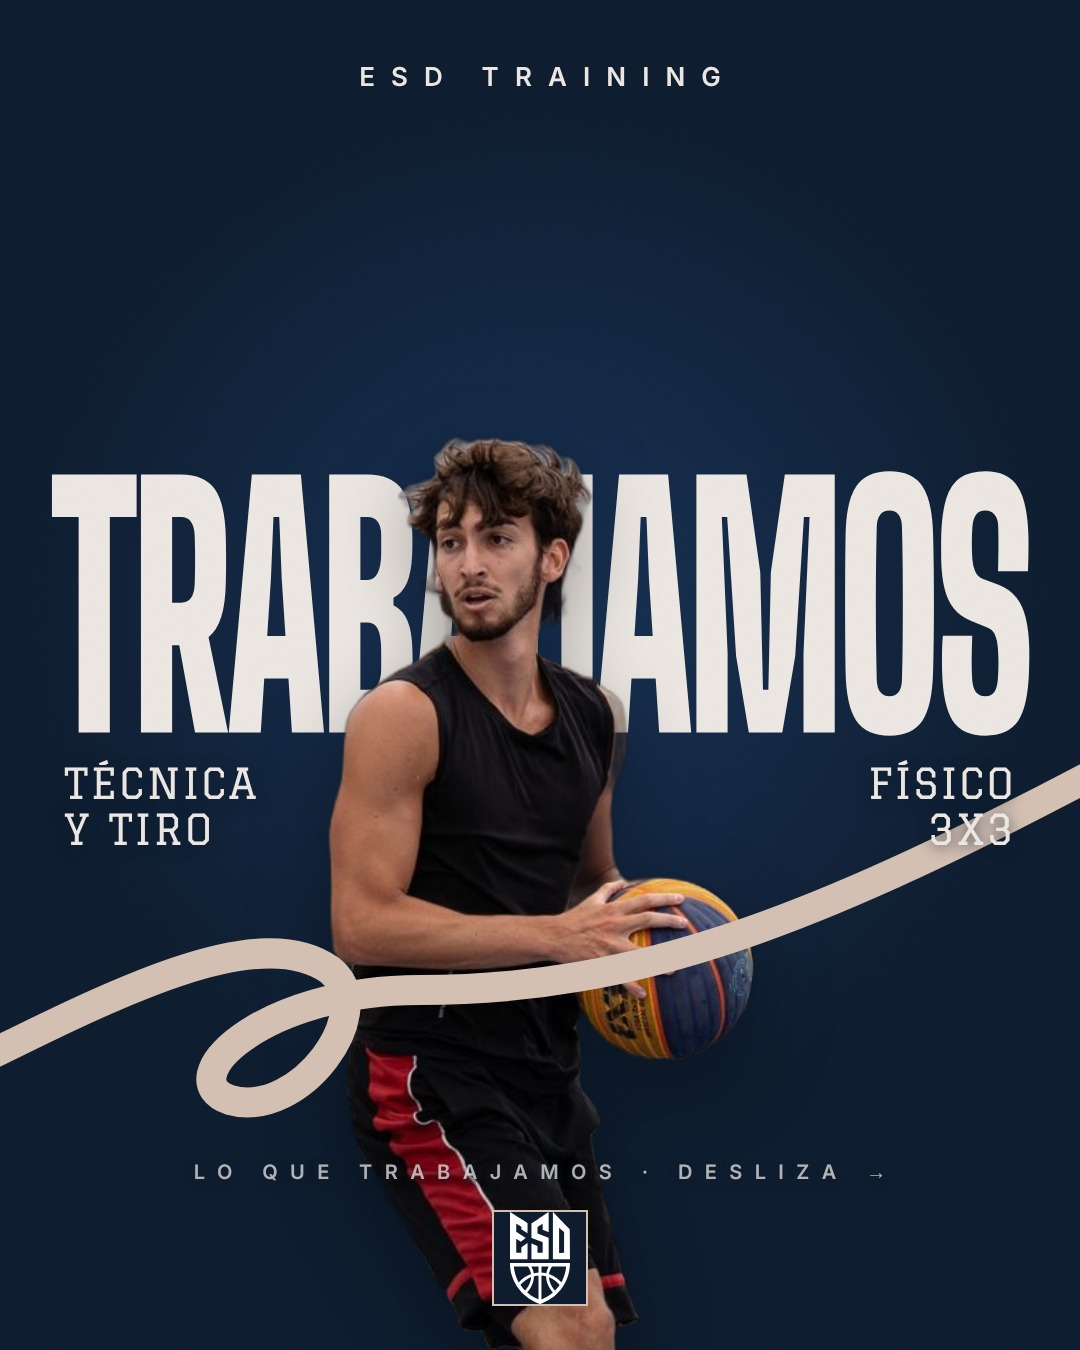
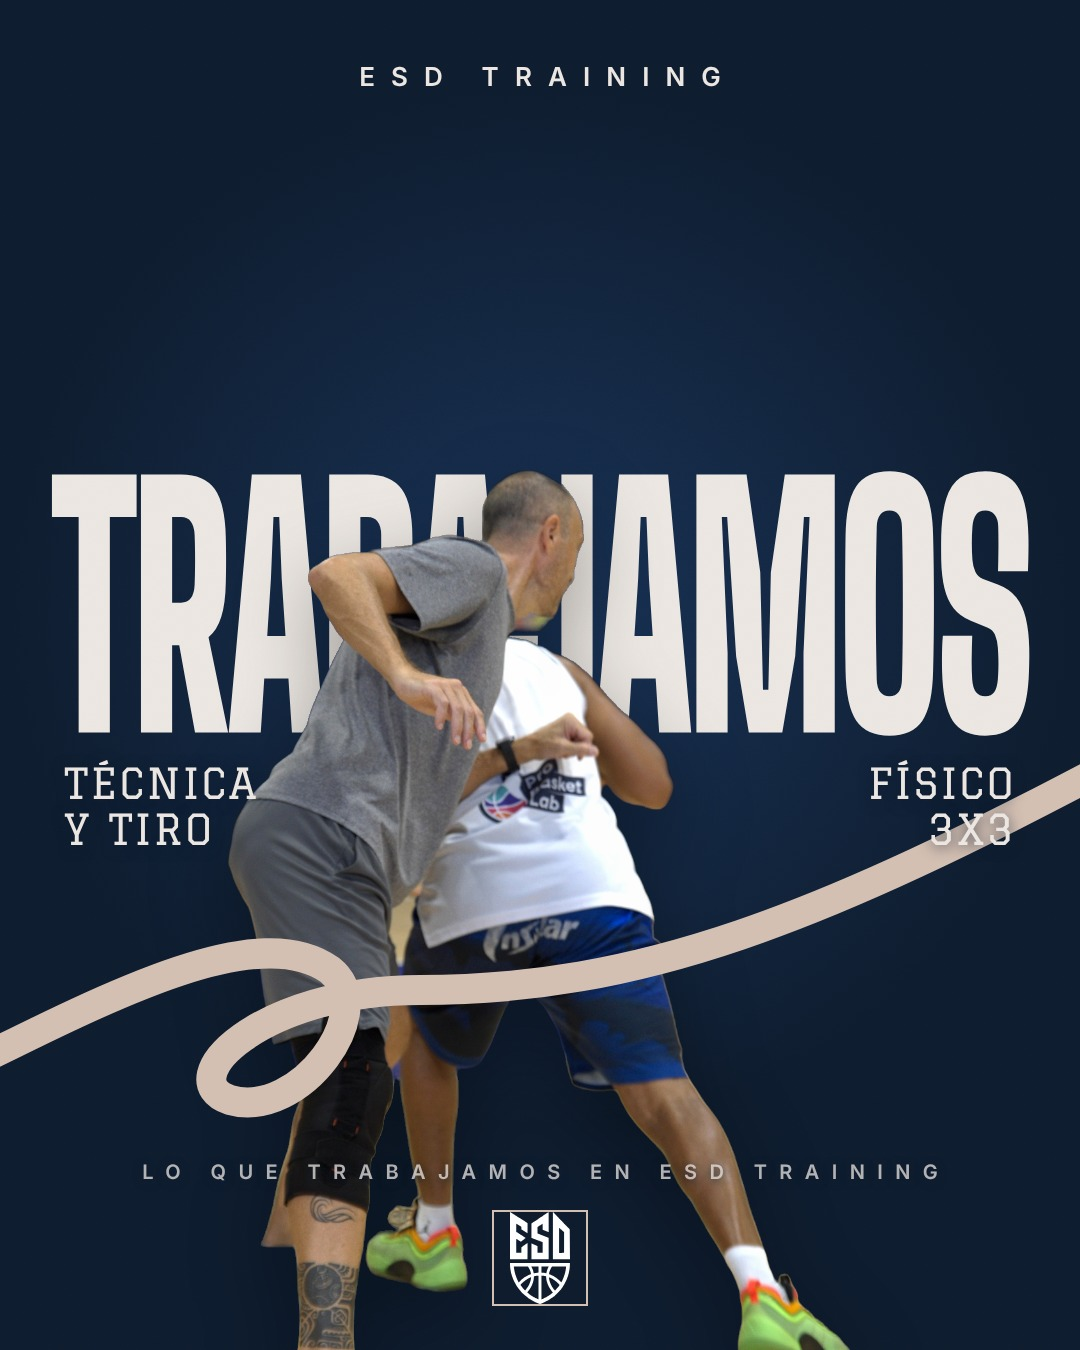
Fotos del entrenamiento: carrusel del 17 oct y posts de entreno con fotos nuevas
JPG convertidos de los RAW en assets/img/fotos/raw-oct, carrusel de 10 fotos
enteras en brand/social/feed4/entreno-17oct y diseños 20, 24 y 27 con recortes nuevos.

Claude-Session: https://claude.ai/code/session_01GrUAUBc3Cn1CSSNR3fCGFR

Changed region(s): [[0.2139, 0.3111, 0.7944, 1.0], [0.1833, 0.84, 0.2139, 0.8711]]

diff --git a/brand/social/feed4/a-20-trabajamos.html b/brand/social/feed4/a-20-trabajamos.html
@@ -14,13 +14,13 @@
 .badge img { width: 60px; }
 .cut { left: 50%; translate: -50% 0; }
 
-.cut { bottom: -260px; height: 1180px; }
+.cut { bottom: -120px; height: 1000px; }
 
 </style></head>
 <body><div class="canvas grain">
 <div class="abs top track">ESD Training</div>
 <div class="abs giant"><span class="fit" data-fit="980" data-h="440">Trabajamos</span></div>
-<img class="cut" src="../feed3/recortes/c-balon.png" alt="">
+<img class="cut" src="../feed3/recortes/c-DSC06703.png" alt="">
 <div class="abs side l">Técnica<br>y tiro</div><div class="abs side r">Físico<br>3x3</div>
-<svg class="sw" viewBox="0 0 1080 420" aria-hidden="true"><path d="M-40 330 C 120 250, 260 180, 330 230 C 380 270, 300 380, 230 360 C 170 340, 260 250, 420 250 C 640 250, 820 180, 1120 20"/></svg><div class="abs foot track">Lo que trabajamos · Desliza →</div><div class="abs badge"><img src="../../logo/esd-logo-blanco.svg" alt="ESD Hoops"></div>
+<svg class="sw" viewBox="0 0 1080 420" aria-hidden="true"><path d="M-40 330 C 120 250, 260 180, 330 230 C 380 270, 300 380, 230 360 C 170 340, 260 250, 420 250 C 640 250, 820 180, 1120 20"/></svg><div class="abs foot track">Lo que trabajamos en ESD Training</div><div class="abs badge"><img src="../../logo/esd-logo-blanco.svg" alt="ESD Hoops"></div>
 </div><script>document.fonts.ready.then(()=>document.querySelectorAll('[data-fit]').forEach(el=>{let f=parseFloat(getComputedStyle(el).fontSize);const W=+el.dataset.fit;const H=+(el.dataset.h||9999);while((el.offsetWidth>W||el.offsetHeight*1.55>H)&&f>20){f-=4;el.style.fontSize=f+'px'}}))</script></body></html>

diff --git a/brand/social/feed4/a-27-razones.html b/brand/social/feed4/a-27-razones.html
@@ -14,13 +14,13 @@
 .badge img { width: 60px; }
 .cut { left: 50%; translate: -50% 0; }
 
-.cut { bottom: -40px; height: 900px; translate: -42% 0; }
+.cut { bottom: -330px; height: 1480px; left: -40px; translate: 0 0; }
 
 </style></head>
 <body><div class="canvas grain">
 <div class="abs top track">ESD Training</div>
 <div class="abs giant"><span class="fit" data-fit="980" data-h="440">Razones</span></div>
-<img class="cut" src="../feed3/recortes/c-jugador.png" alt="">
-<div class="abs side l">3 razones</div><div class="abs side r">para<br>entrenar</div>
+<img class="cut" src="../feed3/recortes/c-DSC07479.png" alt="">
+<div class="abs side l"></div><div class="abs side r">3 razones<br>para<br>entrenar</div>
 <svg class="sw" viewBox="0 0 1080 420" aria-hidden="true"><path d="M-40 330 C 120 250, 260 180, 330 230 C 380 270, 300 380, 230 360 C 170 340, 260 250, 420 250 C 640 250, 820 180, 1120 20"/></svg><div class="abs foot track">Escríbenos ENTRENO por DM</div><div class="abs badge"><img src="../../logo/esd-logo-blanco.svg" alt="ESD Hoops"></div>
 </div><script>document.fonts.ready.then(()=>document.querySelectorAll('[data-fit]').forEach(el=>{let f=parseFloat(getComputedStyle(el).fontSize);const W=+el.dataset.fit;const H=+(el.dataset.h||9999);while((el.offsetWidth>W||el.offsetHeight*1.55>H)&&f>20){f-=4;el.style.fontSize=f+'px'}}))</script></body></html>

diff --git a/brand/social/feed4/a-24-entrena.html b/brand/social/feed4/a-24-entrena.html
@@ -14,13 +14,13 @@
 .badge img { width: 60px; }
 .cut { left: 50%; translate: -50% 0; }
 
-.cut { bottom: -380px; height: 1170px; }
+.cut { bottom: -560px; height: 1500px; }
 
 </style></head>
 <body><div class="canvas grain">
 <div class="abs top track">ESD Training</div>
 <div class="abs giant"><span class="fit" data-fit="980" data-h="440">Entrena</span></div>
-<img class="cut" src="../feed3/recortes/c-tiro.png" alt="">
+<img class="cut" src="../feed3/recortes/c-DSC06663.png" alt="">
 <div class="abs side l">Mejora</div><div class="abs side r">tu tiro</div>
 <svg class="sw" viewBox="0 0 1080 420" aria-hidden="true"><path d="M-40 330 C 120 250, 260 180, 330 230 C 380 270, 300 380, 230 360 C 170 340, 260 250, 420 250 C 640 250, 820 180, 1120 20"/></svg><div class="abs foot track">ESD Hoops · Baloncesto</div><div class="abs badge"><img src="../../logo/esd-logo-blanco.svg" alt="ESD Hoops"></div>
 </div><script>document.fonts.ready.then(()=>document.querySelectorAll('[data-fit]').forEach(el=>{let f=parseFloat(getComputedStyle(el).fontSize);const W=+el.dataset.fit;const H=+(el.dataset.h||9999);while((el.offsetWidth>W||el.offsetHeight*1.55>H)&&f>20){f-=4;el.style.fontSize=f+'px'}}))</script></body></html>
